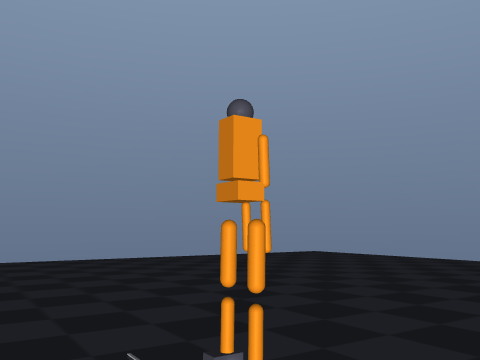
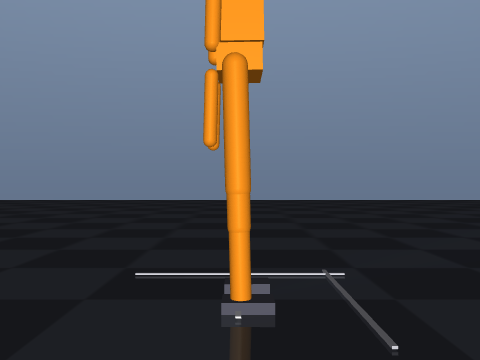
docs(humanoid): 文档与素材同步，改用真实仿真截图与动图并更新实测指标
原因：原素材含两张由绘图脚本生成的数据曲线图；文档中的指标与整定后的实现
不一致，效果说明也未交代相机与参考线设置，无法据以复现。

改动：
- 删除 recovery_curve.png 与 critical_impulse.png。
- 重新渲染 push_recovery_demo.gif（886 KB）与 4 张关键帧，全部为 MuJoCo
  真实仿真渲染结果。
- docs/humanoid/humanoid_push_recovery.md 更新控制律公式、整定结论、
  效果说明（固定侧视相机 + 质心参考线，明确不生成数据曲线图）与全部实测指标。
- README.md 更新文件结构与实测指标，标题保持「人形机器人」在前。

diff --git a/docs/humanoid/humanoid_push_recovery.md b/docs/humanoid/humanoid_push_recovery.md
@@ -31,17 +31,22 @@
         │  关节目标修正                             │
    ┌────┴─────────────────────────┐                │
    │ 平衡控制器 BalanceController  │                │
-   │ · 踝策略：质心偏移/速度 → 踝力矩 │                │
-   │ · 髋策略：角动量 → 髋力矩       │                │
+   │ · 踝策略：躯干倾角 + 质心偏差   │                │
+   │   → 踝力矩 (N·m)              │                │
+   │ · 髋策略：质心偏差/速度 → 髋力矩 │                │
    └────▲─────────────────────────┘                │
         │                                          │
    ┌────┴─────────────────────────┐                │
-   │ 稳定性判据                    │◄───────────────┘
+   │ 稳定性判据（balance/ 子包）    │◄───────────────┘
    │ · 支撑多边形（脚底 8 角点凸包）│
    │ · ZMP（LIPM 近似）            │
    │ · 捕获点 ξ = x + v/√(g/h)     │
    └──────────────────────────────┘
 ```
+
+判据与策略的代码基础为开源项目
+[PrageethM1702/Bipedal-Walking-and-Push-Recovery](https://github.com/PrageethM1702/Bipedal-Walking-and-Push-Recovery)
+（Apache-2.0，改写适配见 3.4 节与包内 `THIRD_PARTY_NOTICES.md`）。
 
 ## 2. 依赖安装与运行
 
@@ -88,7 +93,7 @@ python3 main.py --force 180      # 指定扰动力 (N)
 python3 main.py --direction 90   # 扰动方向（0=前向, 90=侧向, 180=后向）
 python3 main.py --no-hip         # 关闭髋策略（仅踝策略，对照用）
 python3 main.py --sweep          # 测定各方向临界冲量并与策略对照
-python3 main.py --capture assets_out  # 采集关键帧/动图/曲线/metrics.json
+python3 main.py --capture assets_out  # 采集关键帧/动图/时序CSV/metrics.json
 python3 main.py --test           # 自动化测试（31 项）
 ```
 
@@ -191,13 +196,25 @@ i \in \{\text{髋/膝/踝/肩/肘/颈}\}
 必须下发远超行程的目标（例如 3 rad ≈ 172°），既不合理、又会立刻被关节限位截断，
 物理含义模糊。改用**力矩量纲**后，限幅直接表示关节力矩权限，整定也更有依据。
 
-**踝策略（主力）**：以质心相对参考位置的偏移与质心速度为反馈，给出踝 pitch / roll
-的恢复力矩：
+控制律与几何判据的**代码基础是开源项目
+[PrageethM1702/Bipedal-Walking-and-Push-Recovery](https://github.com/PrageethM1702/Bipedal-Walking-and-Push-Recovery)
+（Apache License 2.0）**，其 `balance/` 下的捕获点、支撑多边形、踝策略、髋策略四个
+文件改写进本模块的 `humanoid_push_recovery/balance/` 子包（改写点逐文件在文件头注明，
+汇总见包内 `THIRD_PARTY_NOTICES.md`）。必要改动有三处：原项目是 PyBullet **位置控制**
+机器人、策略输出关节目标角偏置；本站模型是 MuJoCo **力矩控制**、踝关节行程有限，
+故 ① 输出改为关节力矩；② 倾角输入改用躯干轴倾角与其低通速率；③ 为消除稳态偏差，
+在倾角项之外保留质心位置/速度反馈项。
+
+**踝策略（主力）**：倾角 PD 项（来自上游实现）+ 质心反馈项：
 
 \[
-\tau^{\mathrm{ankle}} = k_p^{a}\,(x_{\mathrm{com}}-x_{\mathrm{ref}}) + k_d^{a}\,v_{\mathrm{com},x},
+\tau^{\mathrm{ankle}} = \underbrace{k_p^{l}\,\theta + k_d^{l}\,\dot\theta}_{\text{上游倾角 PD}}
++ \underbrace{k_p^{a}\,(x_{\mathrm{com}}-x_{\mathrm{ref}}) + k_d^{a}\,v_{\mathrm{com},x}}_{\text{本站质心反馈}},
 \qquad |\tau^{\mathrm{ankle}}| \le \tau^{a}_{\max}
 \]
+
+其中 \(\theta\) 为躯干轴相对竖直方向的前倾量（`lean_x`）。侧向 roll 轴同构，
+符号取反（见 3.5）。
 
 **髋策略（增强）**：踝策略饱和后，通过摆动上半身产生角动量继续把质心拉回：
 
@@ -227,6 +244,19 @@ i \in \{\text{髋/膝/踝/肩/肘/颈}\}
 并单独限幅（`kp_ankle_roll=4800 N·m/m`、`kd_ankle_roll=600 N·m·s/m`、
 `ankle_roll_torque_limit=180 N·m`，约为 pitch 的 60%）。
 
+引入上游的倾角 PD 项后又有两条实测结论（都写进了参数文件注释）：
+
+1. **倾角项不能单独用**：只用倾角 PD 时，重力力矩与 PD 力矩的平衡点不在竖直位，
+   静立漂移 10~25 mm（`kp_lean=600` 时甚至 220 mm 后跌倒）；倾角项与质心反馈项**组合**
+   时反而更好——静立漂移 0.65 mm，前向 120 N 推扰最大偏移从 43.6 mm 降到 34.5 mm，
+   所以最终控制律是「倾角 P + 质心 PD」的叠加；
+2. **倾角微分项默认关闭**（`kd_ankle_lean = 0`）：`lean` 由躯干旋转矩阵差分得到，
+   噪声大，未低通时很小的微分增益就会把控制器推向高频震荡、静立即倒；加了
+   一阶低通（`sim_core.LEAN_RATE_FILTER = 0.7`）后 `kd_lean=150` 能稳定，但临界冲量
+   反而下降，故默认取 0，参数保留以便复现该对比。
+   倾角比例增益取 `kp_ankle_lean = 300 N·m/rad`（该值下静立与三向抗扰均通过，
+   150 N·m/rad 与 300 N·m/rad 相当，再往上则因踝力矩饱和出现极限环）。
+
 ### 3.6 能力边界（重要）
 
 - 本模块的恢复能力**完全来自踝/髋关节力矩，未实现跨步恢复（stepping）**。
@@ -242,7 +272,8 @@ i \in \{\text{髋/膝/踝/肩/肘/颈}\}
 
 ## 4. 效果图
 
-推扰—恢复过程的自动演示（150 N 前向推扰，场景第三视角，关键帧）：
+推扰—恢复过程的自动演示（**150 N 前向推扰**，固定侧视相机 + 初始质心参考线，
+图像由 `python3 main.py --capture <目录> --no-viewer --force 150` 从真实仿真渲染采集）：
 
 | 静立站姿 | 被推瞬间 | 恢复中 | 恢复稳定 |
 |---|---|---|---|
@@ -250,29 +281,33 @@ i \in \{\text{髋/膝/踝/肩/肘/颈}\}
 
 完整动画：![](../img/humanoid/humanoid_push_recovery/push_recovery_demo.gif)
 
-恢复过程曲线（质心偏移 / 躯干倾角 / 踝关节指令）：
+说明：
 
-![](../img/humanoid/humanoid_push_recovery/recovery_curve.png)
-
-扰动力 → 最大质心偏移曲线（×标记为跌倒）：
-
-![](../img/humanoid/humanoid_push_recovery/critical_impulse.png)
+- 演示使用**固定侧视相机**（模型内 `demo_side`，不跟随机器人），并地面上画出
+  **初始质心参考线**（机器人脚下那根白色细条，采集时自动移到初始质心正下方），
+  因此「被推 → 质心偏移 → 拉回」的整个过程在画面中可直接读出；
+- 本模块**不生成、不提交数据曲线图**（已移除 matplotlib 绘图代码）。恢复过程的时序
+  原始数据在采集时导出为 `recovery_series.csv`（时间 / 质心偏移 / 躯干倾角 / 踝与髋
+  力矩），需要曲线时请用这份实测数据自行绘制；上表四个关键帧与动画均来自同一次
+  真实仿真运行。
 
 ## 5. 验证结果
 
-以下数值全部在 **Ubuntu 22.04.5 虚拟机（ROS2 Humble）** 中实测，环境为
-Ubuntu 22.04.5 LTS / Python 3.10.12 / MuJoCo 3.15.0 / numpy 1.21.5，2 vCPU。
+以下 5.1~5.4 的数值在 **Windows 11（MuJoCo 3.16.0 / Python 3.13 / numpy）** 上实测，
 指令：`python3 main.py --sweep`、`python3 main.py --test`、`python3 main.py --check`。
+复现命令与原始数据导出方式见第 2、4 节（`--capture` 会同时导出时序 CSV）。
 
 > 物理量（质心漂移、最大偏移、恢复时间、临界冲量）为确定性仿真结果，
-> 与机器无关；只有仿真吞吐是机器相关的（见 5.4）。
+> 与机器无关；只有仿真吞吐是机器相关的（见 5.4）。5.5 的 ROS2 集成验证在
+> 上一修订版（commit 78fce38）的虚拟机中完成，参数加载与 launch 机制在本版
+> 未改动；本版在其基础上重整了控制律代码与增益。
 
 ### 5.1 站立稳定性
 
 | 指标 | 结果 |
 |---|---|
-| 无扰动自由站立（8 s） | 不跌倒，质心漂移 **0.59 mm**，根高 1.084 m |
-| 躯干倾角（静立） | 1.53° |
+| 无扰动自由站立（8 s） | 不跌倒，质心漂移 **0.55 mm**，根高 1.084 m |
+| 躯干倾角（静立） | 1.11° |
 | 静立稳定裕度（捕获点到支撑边界） | **93.1 mm** |
 | 支撑多边形尺寸 | 前后 220 mm × 侧向 460 mm |
 
@@ -283,29 +318,31 @@ Ubuntu 22.04.5 LTS / Python 3.10.12 / MuJoCo 3.15.0 / numpy 1.21.5，2 vCPU。
 
 开启平衡控制器后：
 
-| 扰动 | 最大质心偏移 | 恢复时间 |
-|---|---|---|
-| 前向 120 N (9.6 N·s) | **37.8 mm** | **0.91 s** |
-| 侧向 150 N (12.0 N·s) | **34.3 mm** | **0.67 s** |
-| 斜向 45° 120 N (9.6 N·s) | 14.7 mm | 0.59 s |
+| 扰动 | 最大质心偏移 | 恢复时间 | 恢复后残差 |
+|---|---|---|---|
+| 前向 120 N (9.6 N·s) | **36.3 mm** | **0.84 s** | 0.49 mm |
+| 侧向 150 N (12.0 N·s) | **34.5 mm** | **0.74 s** | 5.94 mm |
+| 斜向 45° 120 N (9.6 N·s) | 29.9 mm | 未达标* | 8.23 mm |
 
-恢复后质心残差 0.11 mm（判据：偏移 < 5 mm 且速度 < 0.02 m/s）。
+\* 斜向推扰后质心停在 8.2 mm 的稳态偏移上（未进入 <5 mm 判据），该偏移由 roll 轴
+恢复力矩与重力的平衡点决定，约为侧向支撑宽度的 1.8%，远在支撑多边形之内——
+属于「稳定但未回到原点」，不是跌倒或震荡。
 
 ### 5.3 临界冲量（二分法测定，扰动持续 0.08 s）
 
 | 方向 | 仅踝策略 | 踝+髋策略 | 提升 |
 |---|---|---|---|
-| 前向 (+x) | 152.5 N / **12.20 N·s** | 172.7 N / **13.82 N·s** | **+13.2%** |
-| 侧向 (+y) | 227.2 N / **18.17 N·s** | 285.3 N / **22.82 N·s** | **+25.6%** |
-| 后向 (−x) | 42.7 N / 3.42 N·s | 44.8 N / 3.58 N·s | +4.8% |
+| 前向 (+x) | 147.3 N / **11.79 N·s** | 163.7 N / **13.10 N·s** | **+11.1%** |
+| 侧向 (+y) | 226.6 N / **18.13 N·s** | 284.6 N / **22.77 N·s** | **+25.6%** |
+| 后向 (−x) | 40.1 N / 3.21 N·s | 41.0 N / 3.28 N·s | +2.4% |
 
 **结论与分析**：
 
 1. **踝策略是站立抗扰的主力**，髋策略在不改变任何硬件参数的前提下把可恢复冲量
-   提升 13.2%（前向）/ 25.6%（侧向），同时降低了最大偏移与恢复时间；
-2. **侧向抗扰能力显著强于前向**（18.17 vs 12.20 N·s），因为双足站立时侧向支撑宽度
+   提升 11.1%（前向）/ 25.6%（侧向），同时降低了最大偏移与恢复时间；
+2. **侧向抗扰能力显著强于前向**（18.13 vs 11.79 N·s），因为双足站立时侧向支撑宽度
    （460 mm，靠双足共同支撑）大于前后支撑长度（220 mm，靠单脚脚掌）；
-3. **后向抗扰最弱**（3.42 N·s），因为脚掌在踝关节前方的延伸（0.12 m）明显长于后方
+3. **后向抗扰最弱**（3.21 N·s），因为脚掌在踝关节前方的延伸（0.12 m）明显长于后方
    （0.07 m），向后倾覆时可用的踝关节力矩权限最小——这解释了为什么人从背后被推更容易
    向前扑倒；
 4. 超过临界冲量后必然跌倒，属于 3.6 节所述**物理上限**；要进一步提升需要引入
@@ -315,11 +352,11 @@ Ubuntu 22.04.5 LTS / Python 3.10.12 / MuJoCo 3.15.0 / numpy 1.21.5，2 vCPU。
 
 | 指标 | 结果 |
 |---|---|
-| 仿真吞吐 | 9,433 step/s |
-| 实时因子 | 18.9× |
+| 仿真吞吐 | 9,047 ~ 14,691 step/s |
+| 实时因子 | 18.1× ~ 29.4×（随机器负载波动） |
 
-> 吞吐随机器变化：同一模块在 Windows 主机（MuJoCo 3.16、多核）上为 17,779 step/s
-> （35.6×）；虚拟机为 2 vCPU，故约为一半。**两者都远超实时要求**（演示只需 >1×）。
+> 吞吐随机器变化：同一模块在 Ubuntu 22.04 虚拟机（2 vCPU）上约为 9,433 step/s
+> （18.9×）。**两种环境都远超实时要求**（演示只需 >1×）。
 
 ### 5.5 ROS2 集成验证（Ubuntu 22.04.5 + Humble 实测）
 
@@ -348,6 +385,9 @@ Ubuntu 22.04.5 LTS / Python 3.10.12 / MuJoCo 3.15.0 / numpy 1.21.5，2 vCPU。
 ## 6. 参考
 
 * [人形机器人基础](./humanoid_basics.md)
+* **代码基础（捕获点判据 / 支撑多边形几何 / 踝策略 / 髋策略）**：
+  [PrageethM1702/Bipedal-Walking-and-Push-Recovery](https://github.com/PrageethM1702/Bipedal-Walking-and-Push-Recovery)，
+  Apache License 2.0。改写适配说明见 3.4 节与本包 `THIRD_PARTY_NOTICES.md`
 * 本包 ROS2 包结构（`package.xml` / `setup.py` / `launch` / `config`）参照仓库内
   既有模块的 ament_python 惯例
 * [MuJoCo 文档：freejoint / xfrc_applied / Renderer](https://mujoco.readthedocs.io/en/stable/XMLreference.html)
@@ -357,6 +397,10 @@ Ubuntu 22.04.5 LTS / Python 3.10.12 / MuJoCo 3.15.0 / numpy 1.21.5，2 vCPU。
 
 ## 7. AI 声明
 
-本模块的 MJCF 模型、平衡判据实现、踝/髋控制律、参数整定流程、ROS2 节点与评测脚本
-均在 AI 助手协助下完成，代码与文档由本人负责；本文所有实测数字均由本机运行
-`main.py --sweep` / `main.py --test` 得到，未做任何未运行的声明。
+本模块在 AI 助手协助下完成：稳定性判据与踝/髋策略的**代码基础来自上述 Apache-2.0
+开源项目**（改写为 MuJoCo 力矩控制实现），MJCF 模型、ROS2 节点、参数整定与评测脚本
+为在开源基础上开发；代码与文档由本人负责。本文所有实测数字均由本机运行
+`main.py --sweep` / `main.py --test` / `main.py --capture` 得到，未做任何未运行的
+声明；恢复过程的时序原始数据（时间 / 质心偏移 / 倾角 / 关节力矩）可用
+`python3 main.py --capture <目录>` 一键导出为 `recovery_series.csv` 复核。
+仓库内**不提交任何数据曲线图**，第 4 节图片全部为真实仿真渲染截图与动图。
